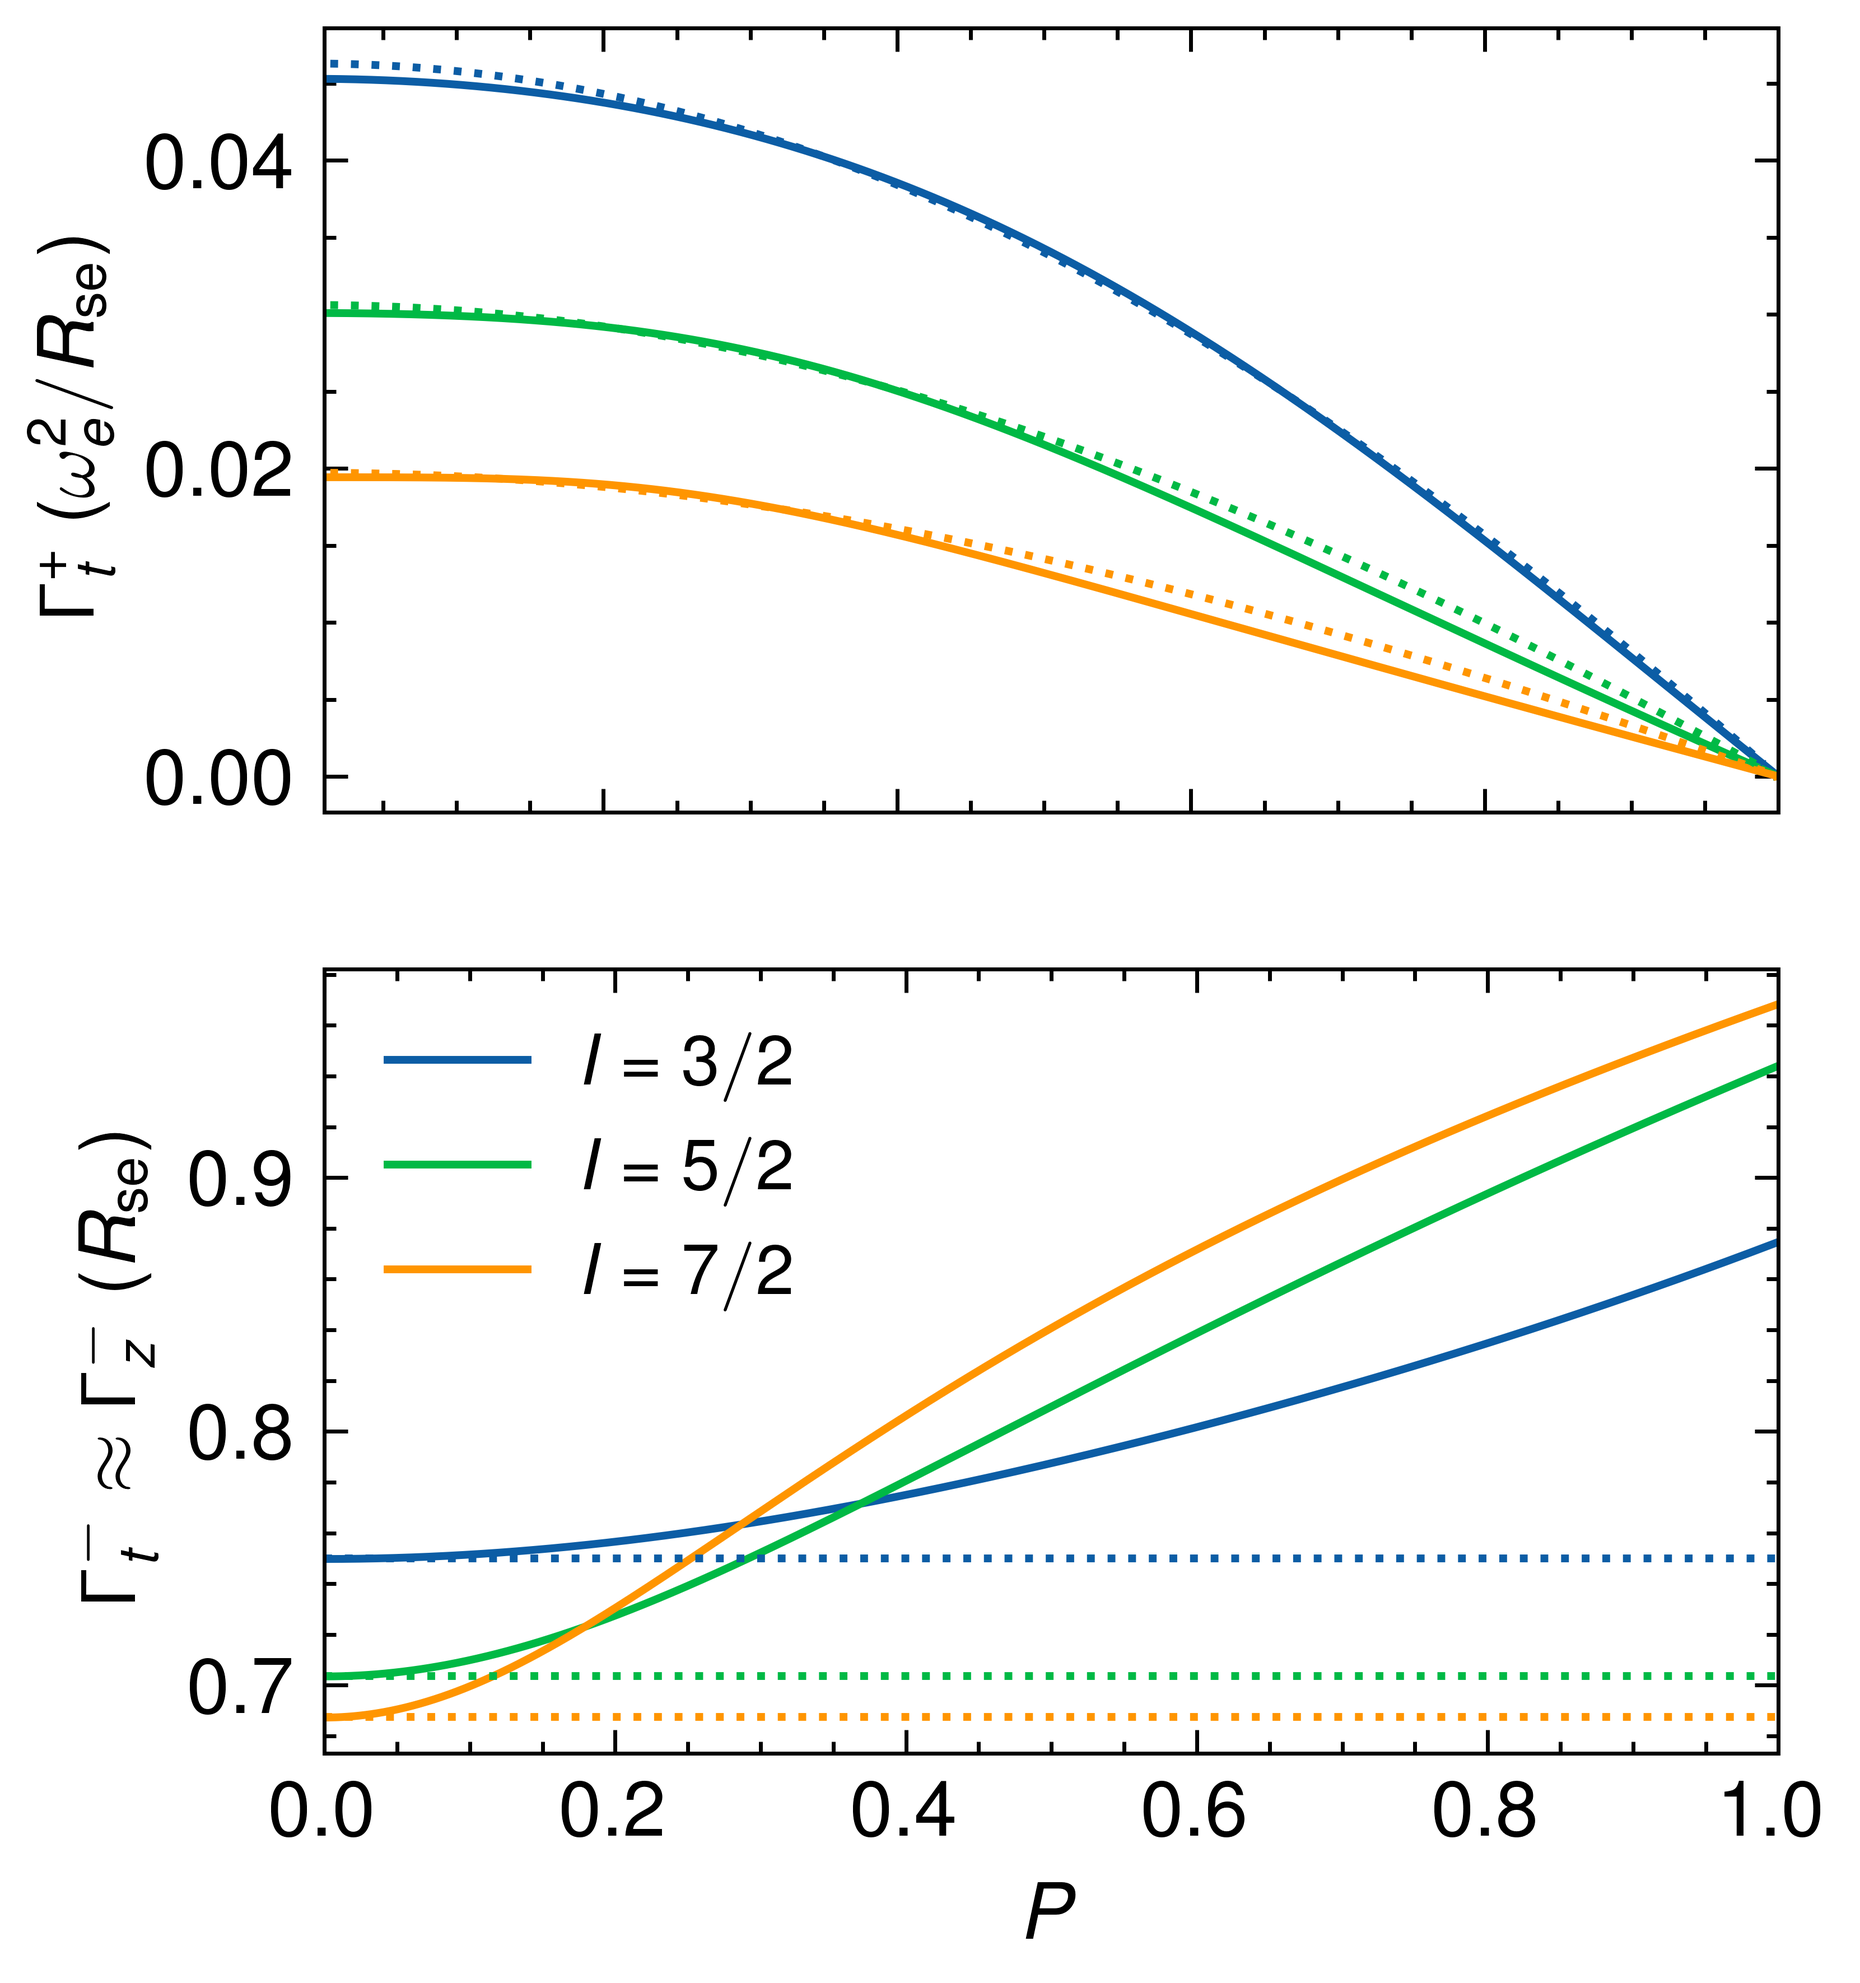
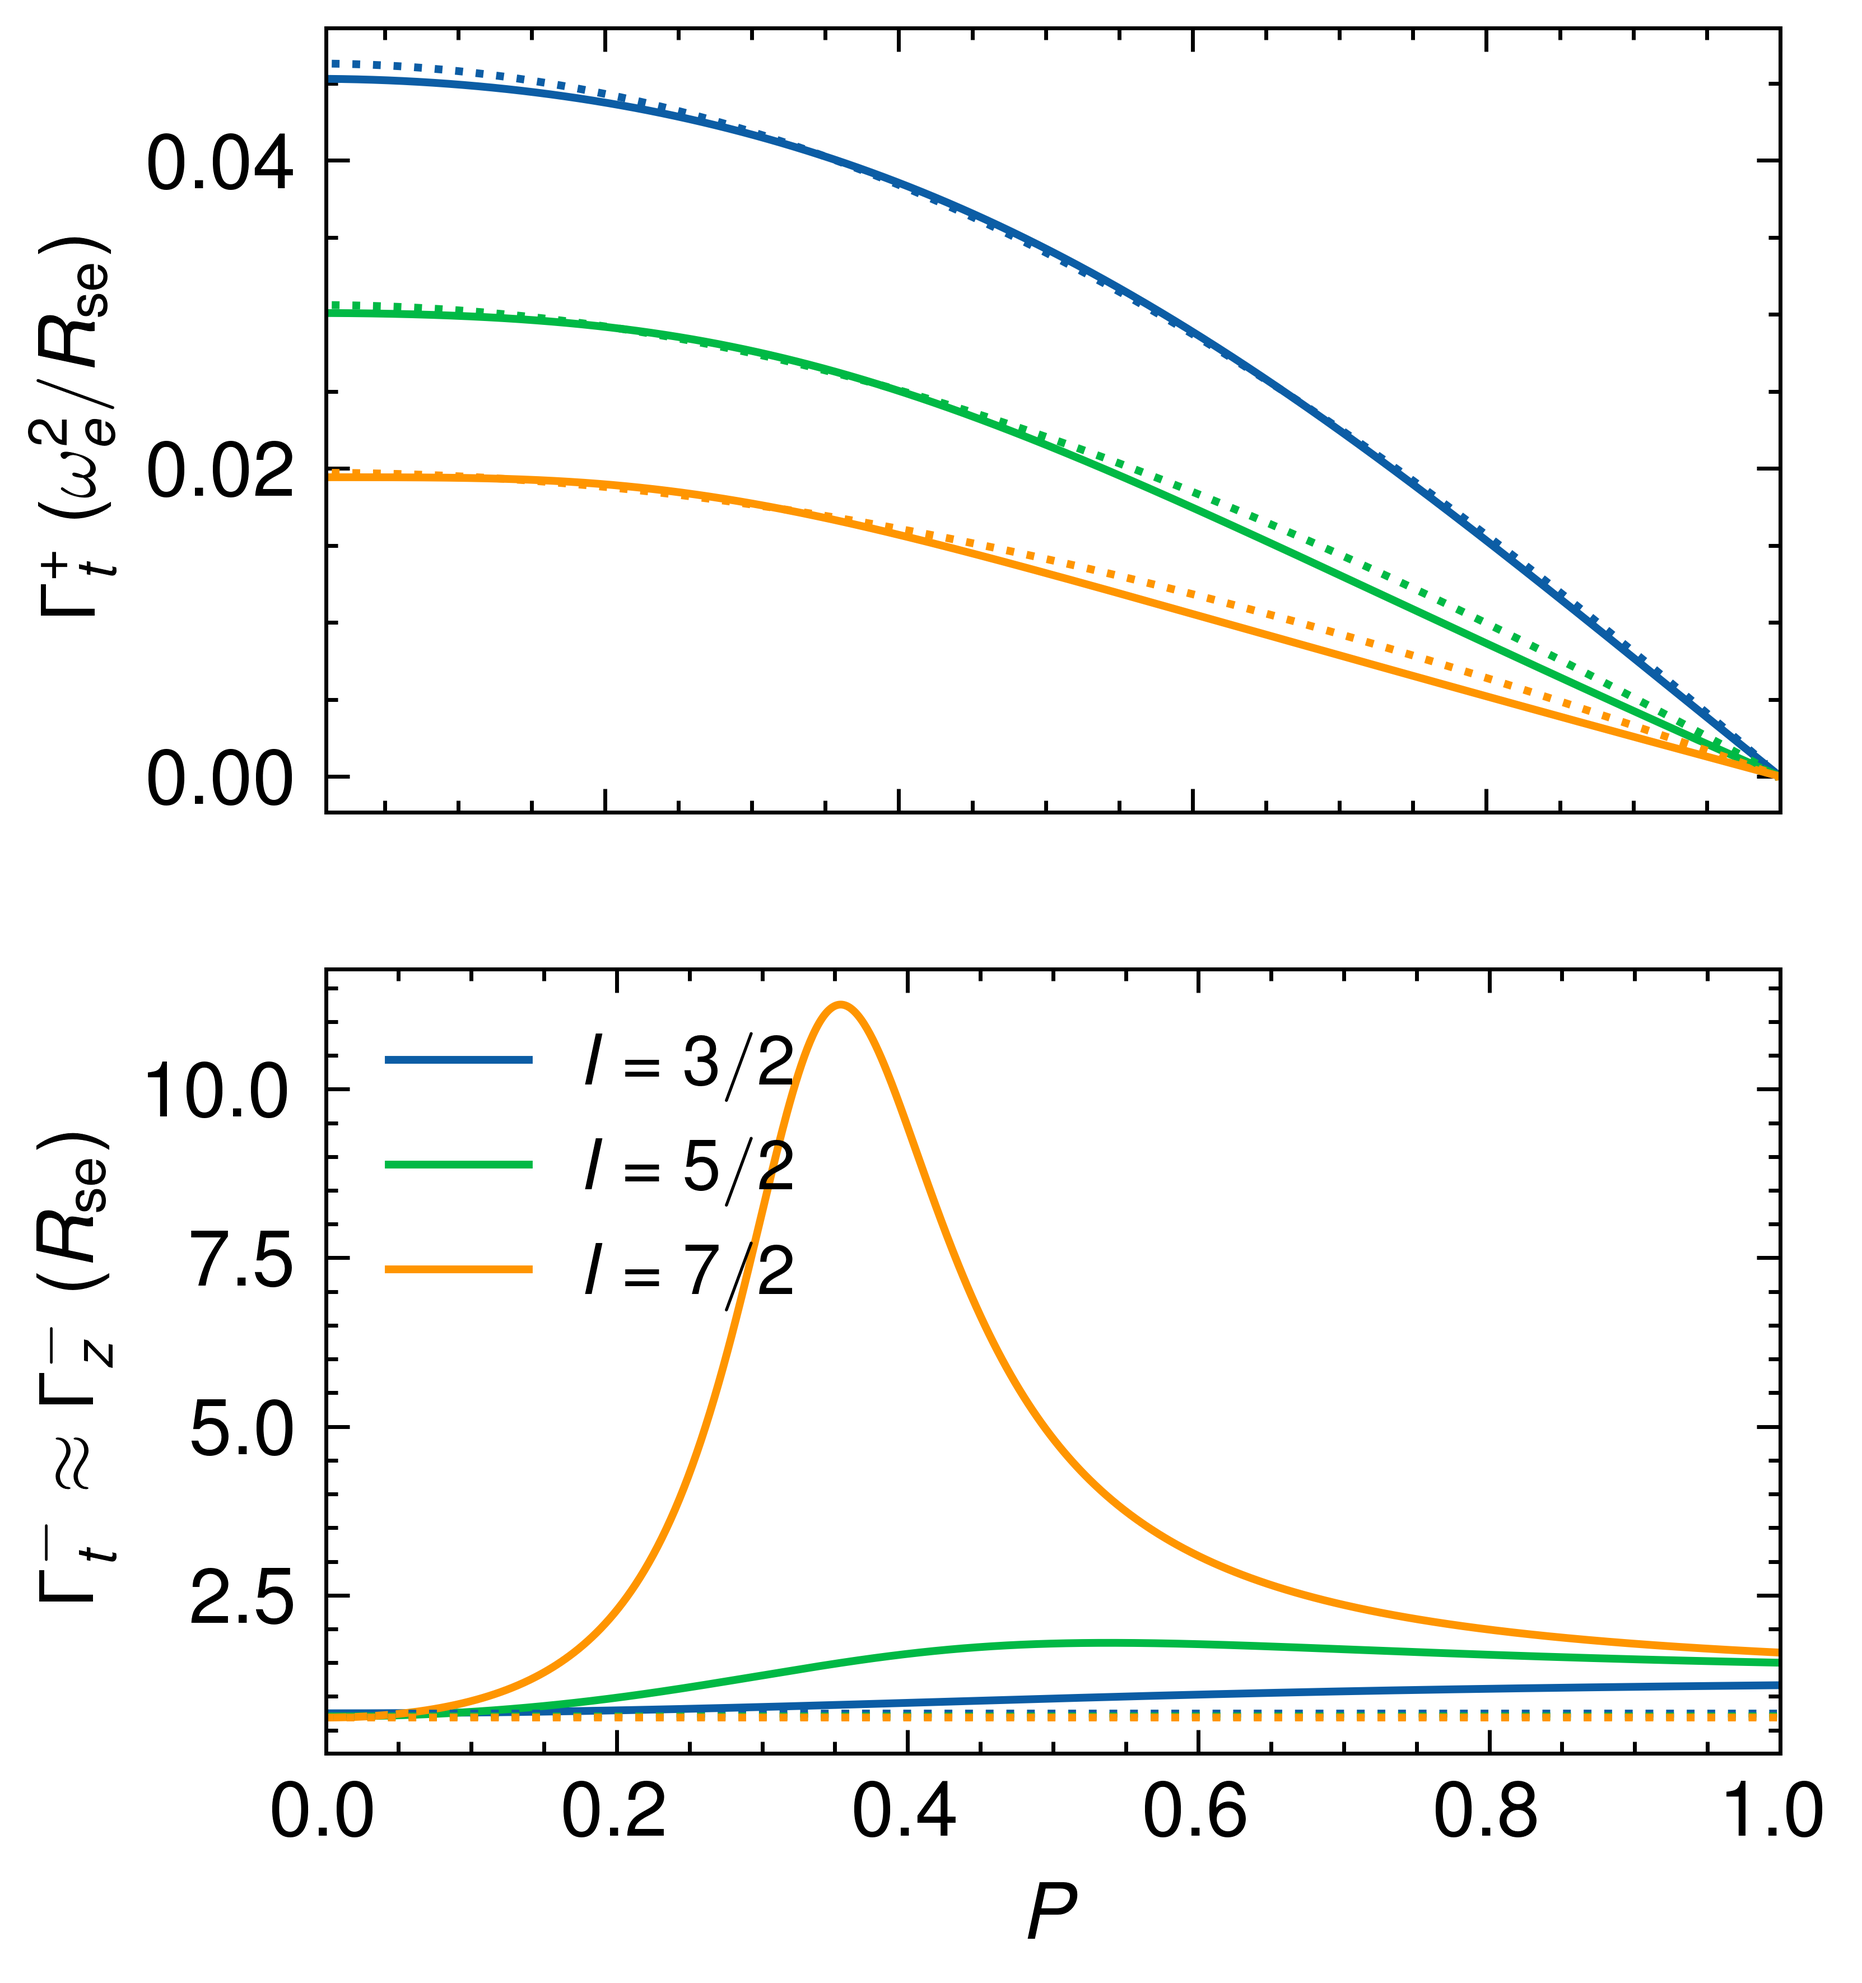
1

diff --git a/my_functions/test7_copy.py b/my_functions/test7_copy.py
@@ -81,9 +81,13 @@ def gammam(I,bound):
         if a==4:
             qq=2*(11+35*P_ini**2+17*P_ini**4+P_ini**6)/(1+7*P_ini**2+7*P_ini**4+P_ini**6)
             eta=(qq+8)/(qq-8)
+        module=np.sqrt(np.trace((ax+bx)@Rhot)**2+np.trace((ay+by)@Rhot)**2)
+        ex= np.trace((ax+bx)@Rhot)/module
+        ey= np.trace((ay+by)@Rhot)/module
         Fxm0 = np.trace((ax-eta*bx)@Rhot)
         Fym0 = np.trace((ay-eta*by)@Rhot)
-        Fm0=np.sqrt(Fxm0**2+Fym0**2)
+        Fp0= Fxm0*ex+Fym0*ey
+
         for k in np.arange(0,10,1):
             Rhot = hyperfine * Rhot
             x1 = Rhot @ Sx
@@ -96,21 +100,21 @@ def gammam(I,bound):
             mSz = np.trace(x3)
             mSS = mSx * Sx + mSy * Sy + mSz * Sz
             Rhot = Rse * (alpha + 4 * alpha @ mSS - Rhot) * dt  + Rhot
-        P_t=np.sqrt(np.trace(Rhot@Sx)**2+np.trace(Rhot@Sy)**2)*2
-        if a==2:
-            eta=(5+3*P_t**2)/(1-P_t**2)
-        if a==3:
-            qq=2*(19+26*P_t**2+3*P_t**4)/(3+10*P_t**2+3*P_t**4)
-            eta=(qq+6)/(qq-6)
-        if a==4:
-            qq=2*(11+35*P_t**2+17*P_t**4+P_t**6)/(1+7*P_t**2+7*P_t**4+P_t**6)
-            eta=(qq+8)/(qq-8)
+        # P_t=np.sqrt(np.trace(Rhot@Sx)**2+np.trace(Rhot@Sy)**2)*2
+        # if a==2:
+        #     eta=(5+3*P_t**2)/(1-P_t**2)
+        # if a==3:
+        #     qq=2*(19+26*P_t**2+3*P_t**4)/(3+10*P_t**2+3*P_t**4)
+        #     eta=(qq+6)/(qq-6)
+        # if a==4:
+        #     qq=2*(11+35*P_t**2+17*P_t**4+P_t**6)/(1+7*P_t**2+7*P_t**4+P_t**6)
+        #     eta=(qq+8)/(qq-8)
         Fxm = np.trace((ax-eta*bx)@Rhot)
         Fym = np.trace((ay-eta*by)@Rhot)
-        Fm=np.sqrt(Fxm**2+Fym**2)
+        Fp= Fxm*ex+Fym*ey
         
 
-        Fmmt[n]=(Fm-Fm0)/(10*dt)/Fm0
+        Fmmt[n]=(Fp-Fp0)/(10*dt)/Fp0
 
     return PP,Fmmt
     
